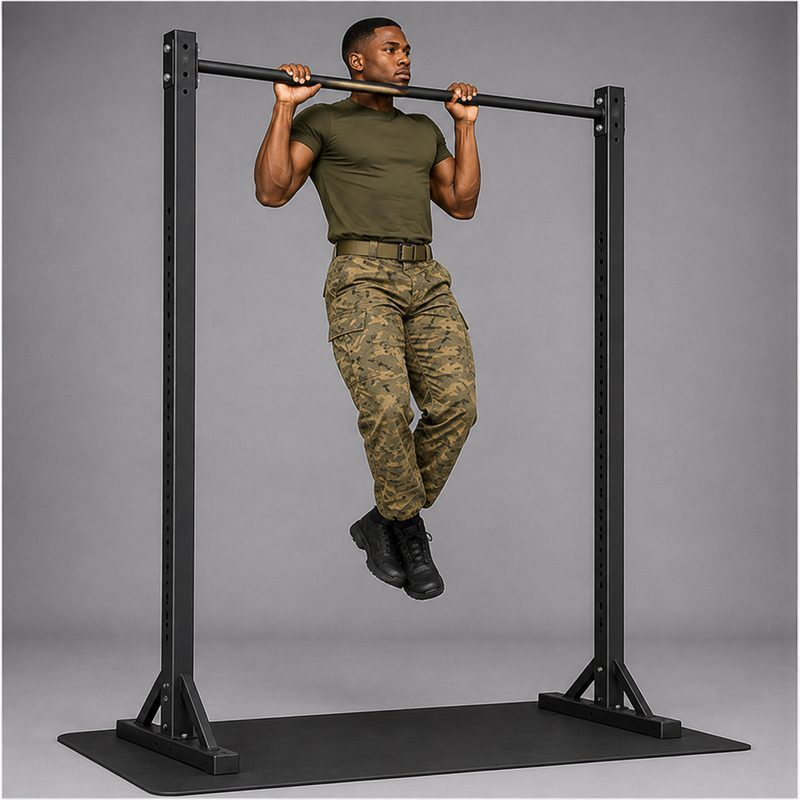
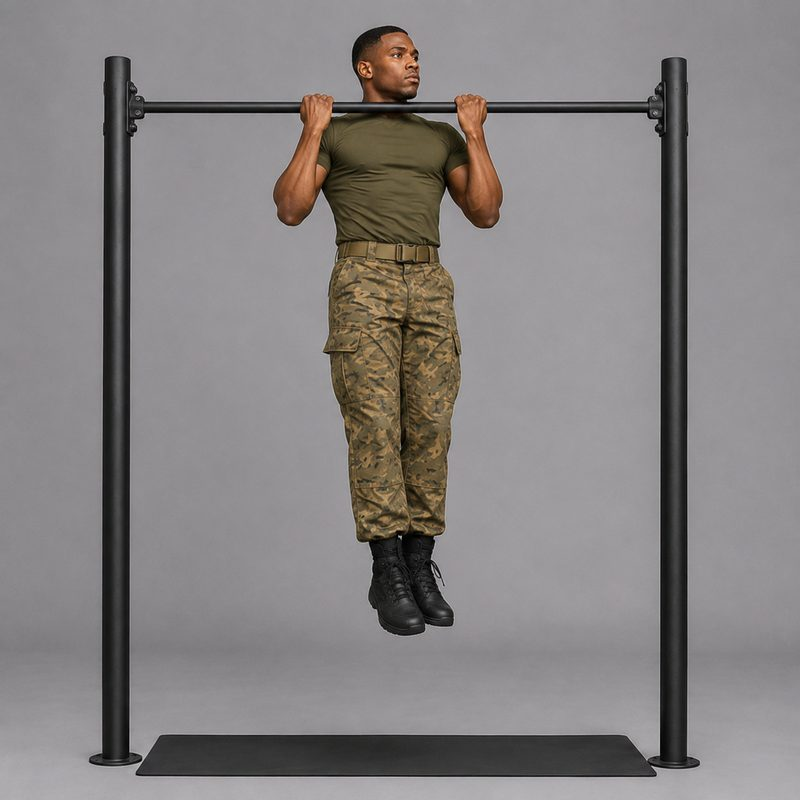
Swap chin-up and negative pull-up photos
The two overhand/underhand bar-pull shots were mapped to the wrong keys in
the Batch 6 conversion. Swap ex-chinup.jpg and ex-negpullup.jpg so each
exercise shows the correct grip/position.

Bump SW cache to v66 so clients refetch the corrected images.

Claude-Session: https://claude.ai/code/session_012pSaigMvmiPH3HEpchsLug

diff --git a/sw.js b/sw.js
@@ -1,5 +1,5 @@
 /* CoreForge — offline service worker */
-const CACHE = 'coreforge-v65';
+const CACHE = 'coreforge-v66';
 const SHELL = ['./', './index.html', './manifest.webmanifest', './icon-192.png', './icon-512.png', './hero.jpg',
   './ex-kneeplank.jpg','./ex-plank.jpg','./ex-longplank.jpg','./ex-planktap.jpg',
   './ex-tuckhollow.jpg','./ex-hollow.jpg','./ex-hollowrock.jpg',
